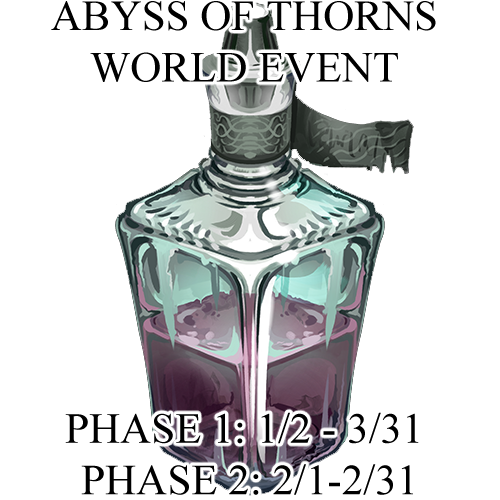
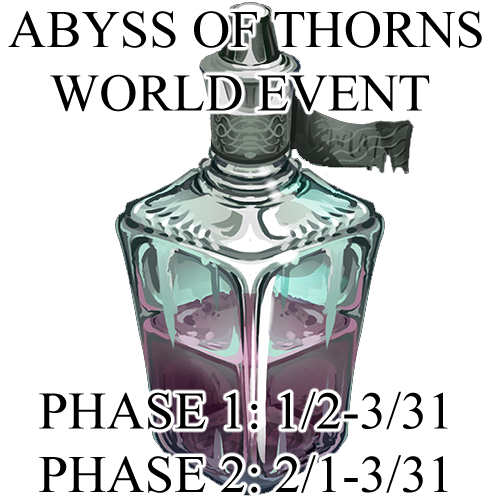
Fixed date range on AoT button

Changed region(s): [[0.03, 0.0, 0.96, 0.24], [0.06, 0.78, 0.9, 0.99], [0.87, 0.9, 0.9, 0.99]]

diff --git a/resources/views/pages/_dashboard.blade.php b/resources/views/pages/_dashboard.blade.php
@@ -9,7 +9,7 @@
 
 <h2>Current Event</h2>
 <a href="{{ url('https://soulsbetween.com/prompts/prompt-categories?name=Arena') }}"><img src="{{ asset('images/arenaseason.png') }}"></a>
-<a href="{{ url('https://www.soulsbetween.com/world/events/4') }}"><img src="{{ asset('images/2aotevent.png') }}"></a>
+<a href="{{ url('https://www.soulsbetween.com/world/events/4') }}"><img src="{{ asset('images/aotevent.png') }}"></a>
 
 <br>
 <br>
